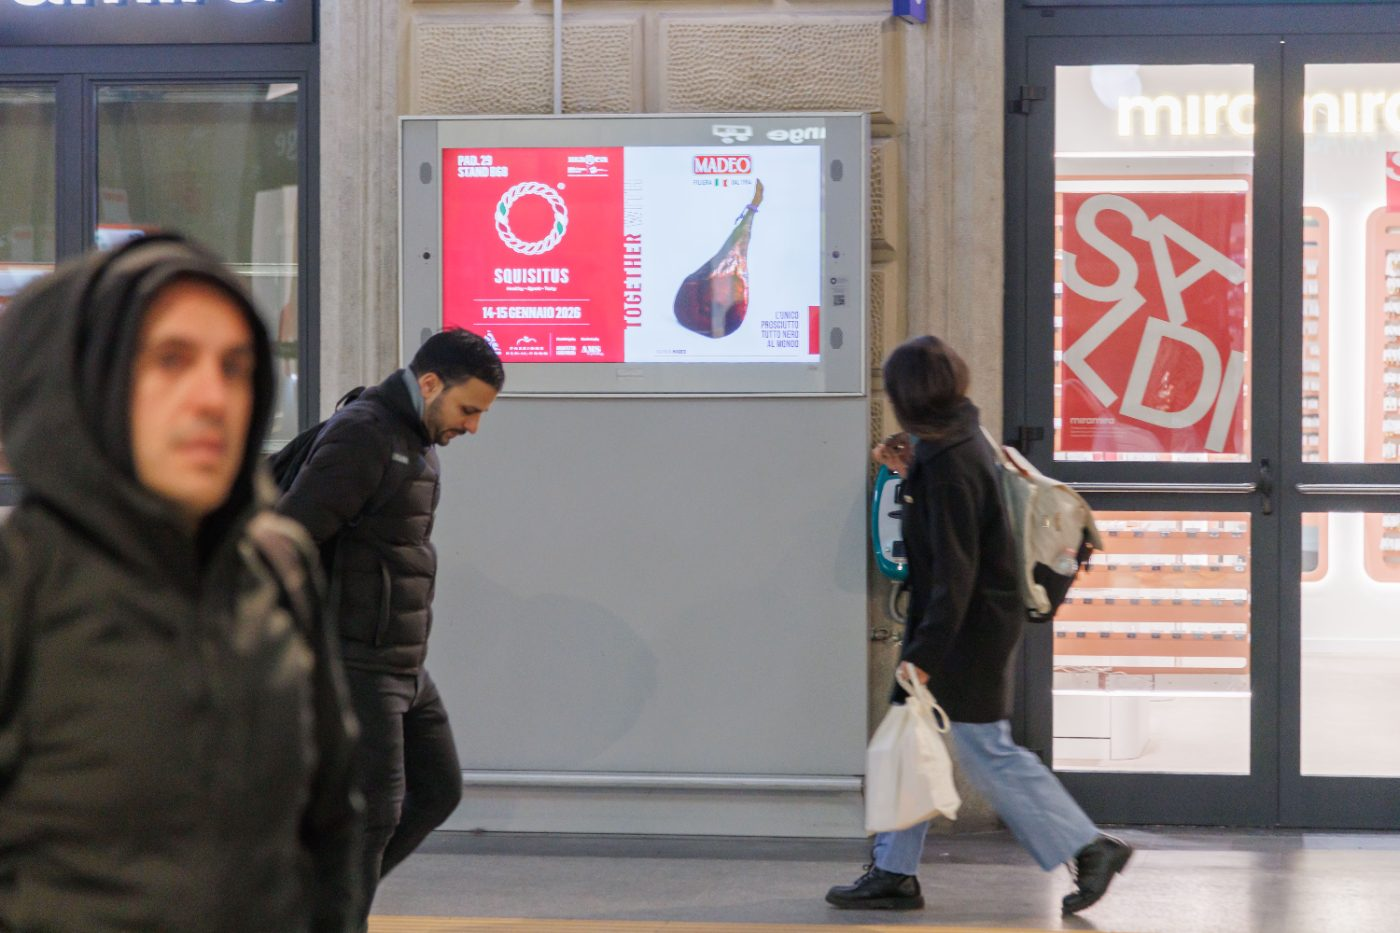
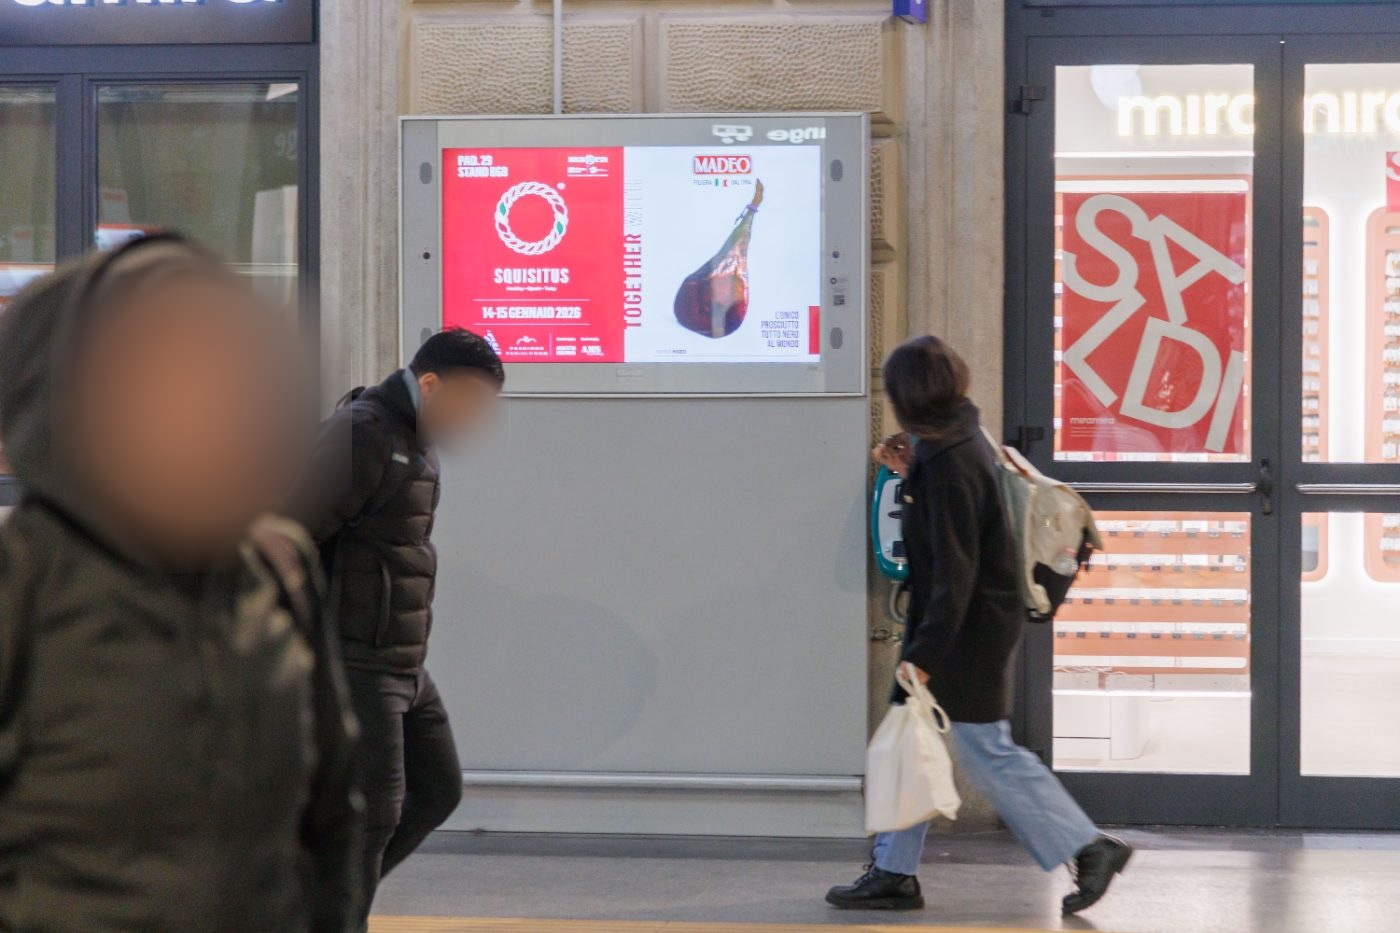
Moodboard: volti sfocati nella foto Digital · Madeo
Sfocatura applicata con scripts/sfoca-volti.swift (Vision di macOS, in
locale) alle foto della campagna media: solo camp-madeo-digital ha volti
riconoscibili. Originale intatto in ../assets.

Changed region(s): [[0.0307, 0.2797, 0.2457, 0.6217], [0.2764, 0.373, 0.3686, 0.4973]]

diff --git a/scripts/sfoca-volti.swift b/scripts/sfoca-volti.swift
@@ -1,0 +1,96 @@
+// Sfoca i volti nelle foto (rilevamento con il framework Vision di macOS, tutto in locale).
+// Uso:  swift scripts/sfoca-volti.swift [--solo-conta] file1.jpg file2.png …
+// Ogni file viene sovrascritto con la versione sfocata; tenere gli originali altrove (es. ../assets).
+import Foundation
+import Vision
+import CoreImage
+import ImageIO
+import UniformTypeIdentifiers
+
+let args = Array(CommandLine.arguments.dropFirst())
+let soloConta = args.contains("--solo-conta")
+let files = args.filter { !$0.hasPrefix("--") }
+let ctx = CIContext()
+
+// Faces are often small in event photos: besides the whole image, look in overlapping tiles
+// (2×2 and 3×3, each enlarged by Vision's own scaling) and merge the boxes found.
+func detect(_ cg: CGImage) -> [CGRect] {
+    let r = VNDetectFaceRectanglesRequest()
+    r.revision = VNDetectFaceRectanglesRequestRevision3
+    try? VNImageRequestHandler(cgImage: cg, options: [:]).perform([r])
+    return (r.results ?? []).filter { $0.confidence > 0.35 }.map { $0.boundingBox }
+}
+
+func iou(_ a: CGRect, _ b: CGRect) -> CGFloat {
+    let i = a.intersection(b); if i.isNull { return 0 }
+    let ai = i.width * i.height
+    return ai / (a.width * a.height + b.width * b.height - ai)
+}
+
+func faces(_ cg: CGImage) -> [CGRect] {
+    let W = CGFloat(cg.width), H = CGFloat(cg.height)
+    var found: [CGRect] = detect(cg)   // normalised, origin bottom-left
+    for n in [2, 3, 4] {
+        let tw = W / CGFloat(n), th = H / CGFloat(n), ox = tw * 0.25, oy = th * 0.25
+        for gy in 0..<n { for gx in 0..<n {
+            // tile in pixel coords (CGImage cropping uses top-left origin)
+            let px = max(0, CGFloat(gx) * tw - ox), py = max(0, CGFloat(gy) * th - oy)
+            let rect = CGRect(x: px, y: py, width: min(W - px, tw + 2 * ox), height: min(H - py, th + 2 * oy)).integral
+            guard let tile = cg.cropping(to: rect) else { continue }
+            for b in detect(tile) {
+                // tile-normalised (bottom-left) -> image-normalised (bottom-left)
+                let x = (rect.minX + b.minX * rect.width) / W
+                let yTop = rect.minY + (1 - b.maxY) * rect.height          // top edge in pixel, top-left origin
+                let y = 1 - (yTop + b.height * rect.height) / H
+                found.append(CGRect(x: x, y: y, width: b.width * rect.width / W, height: b.height * rect.height / H))
+            }
+        } }
+    }
+    // merge duplicates found at several scales
+    var out: [CGRect] = []
+    for f in found.sorted(by: { $0.width * $0.height > $1.width * $1.height }) {
+        if let k = out.firstIndex(where: { iou($0, f) > 0.25 || $0.contains(CGPoint(x: f.midX, y: f.midY)) }) { out[k] = out[k].union(f) }
+        else { out.append(f) }
+    }
+    return out
+}
+
+var totale = 0
+for path in files {
+    let url = URL(fileURLWithPath: path)
+    guard let src = CGImageSourceCreateWithURL(url as CFURL, nil),
+          let cg = CGImageSourceCreateImageAtIndex(src, 0, nil) else { print("! non leggibile: \(path)"); continue }
+    let boxes = faces(cg)
+    totale += boxes.count
+    print(String(format: "%3d volti  %@", boxes.count, (path as NSString).lastPathComponent))
+    if soloConta || boxes.isEmpty { continue }
+
+    let W = CGFloat(cg.width), H = CGFloat(cg.height)
+    let base = CIImage(cgImage: cg)
+    var out = base
+    for b in boxes {
+        // Vision boxes are normalised with origin bottom-left, like Core Image: enlarge to cover hair and chin
+        var r = CGRect(x: b.minX * W, y: b.minY * H, width: b.width * W, height: b.height * H)
+        r = r.insetBy(dx: -r.width * 0.35, dy: -r.height * 0.45)
+        r = r.intersection(CGRect(x: 0, y: 0, width: W, height: H))
+        let radius = max(12, r.width * 0.18)
+        let blurred = base.clampedToExtent()
+            .applyingFilter("CIPixellate", parameters: [kCIInputScaleKey: max(8, r.width / 9), kCIInputCenterKey: CIVector(x: r.midX, y: r.midY)])
+            .applyingFilter("CIGaussianBlur", parameters: [kCIInputRadiusKey: radius])
+            .cropped(to: r)
+        // soft-edged oval mask so the blur blends into the photo
+        let mask = CIFilter(name: "CIRadialGradient", parameters: [
+            "inputCenter": CIVector(x: r.midX, y: r.midY),
+            "inputRadius0": min(r.width, r.height) * 0.38,
+            "inputRadius1": min(r.width, r.height) * 0.58,
+            "inputColor0": CIColor.white, "inputColor1": CIColor(red: 0, green: 0, blue: 0, alpha: 0)
+        ])!.outputImage!.cropped(to: r)
+        out = blurred.applyingFilter("CIBlendWithMask", parameters: [kCIInputBackgroundImageKey: out, kCIInputMaskImageKey: mask])
+    }
+    guard let result = ctx.createCGImage(out.cropped(to: base.extent), from: base.extent) else { print("! errore: \(path)"); continue }
+    let type = url.pathExtension.lowercased() == "png" ? UTType.png : UTType.jpeg
+    guard let dest = CGImageDestinationCreateWithURL(url as CFURL, type.identifier as CFString, 1, nil) else { continue }
+    CGImageDestinationAddImage(dest, result, [kCGImageDestinationLossyCompressionQuality: 0.84] as CFDictionary)
+    CGImageDestinationFinalize(dest)
+}
+print("totale volti: \(totale)")
